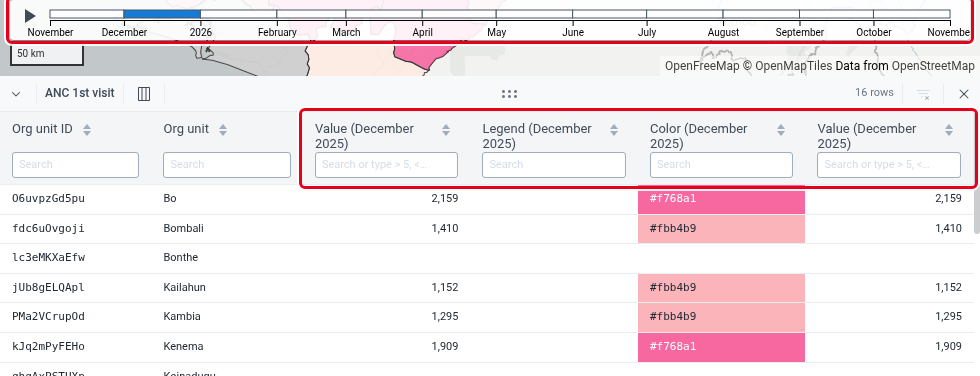
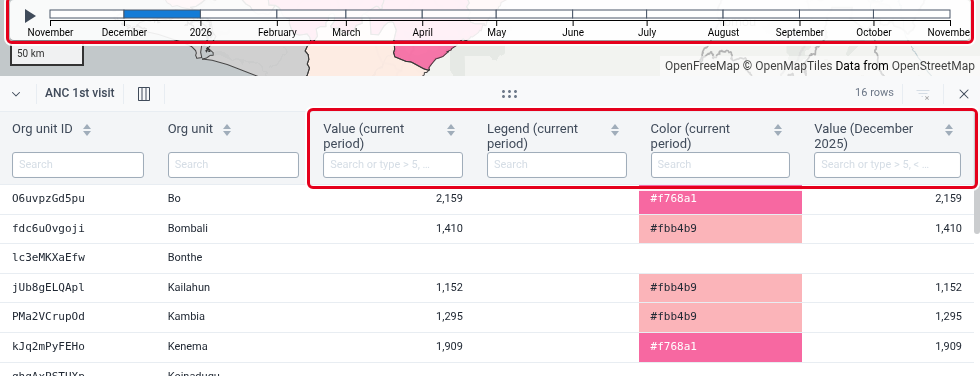
chore: retake the timeline screenshot for #3840 with the current period names

diff --git a/DHIS2-21456/screenshots.cy.js b/DHIS2-21456/screenshots.cy.js
@@ -293,7 +293,11 @@ const columnShots = (prefix) => {
     // November 2025, then December 2025, the last month with data
     cy.get('.dhis2-map-timeline rect').eq(1).click({ force: true })
     cy.wait(2500)
-    mark(headerCells().filter(':contains("December 2025")'))
+    mark(
+        headerCells().filter(
+            ':contains("December 2025"), :contains("current period")'
+        )
+    )
     mark(cy.get('.dhis2-map-timeline'))
     shoot(`${prefix}-timeline`, {
         context: appElements(
